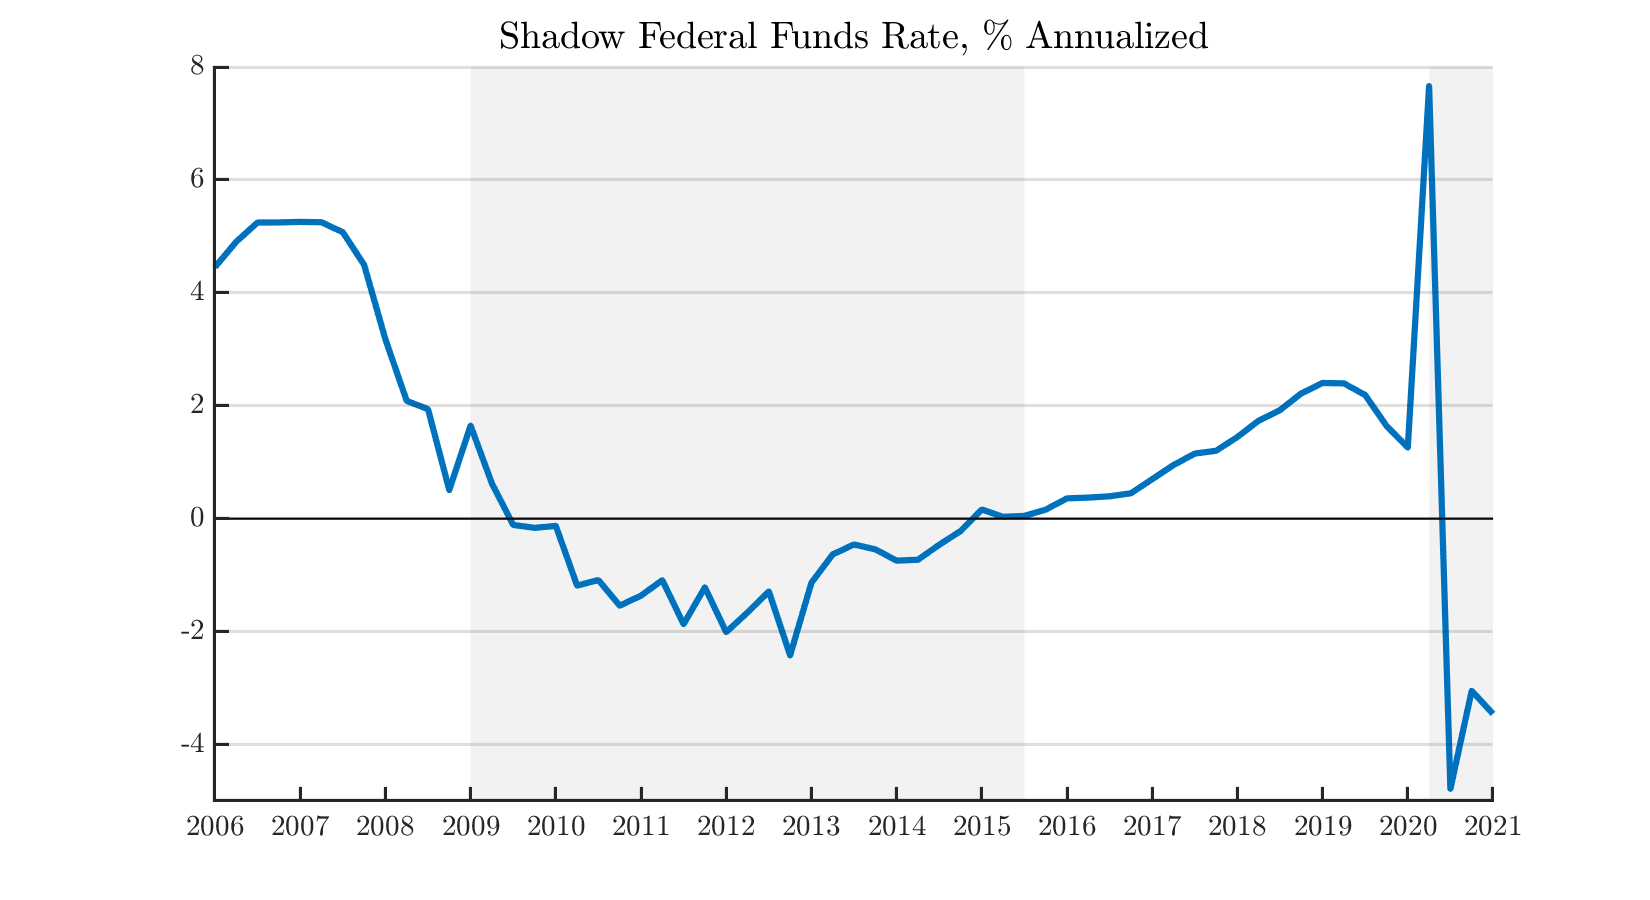
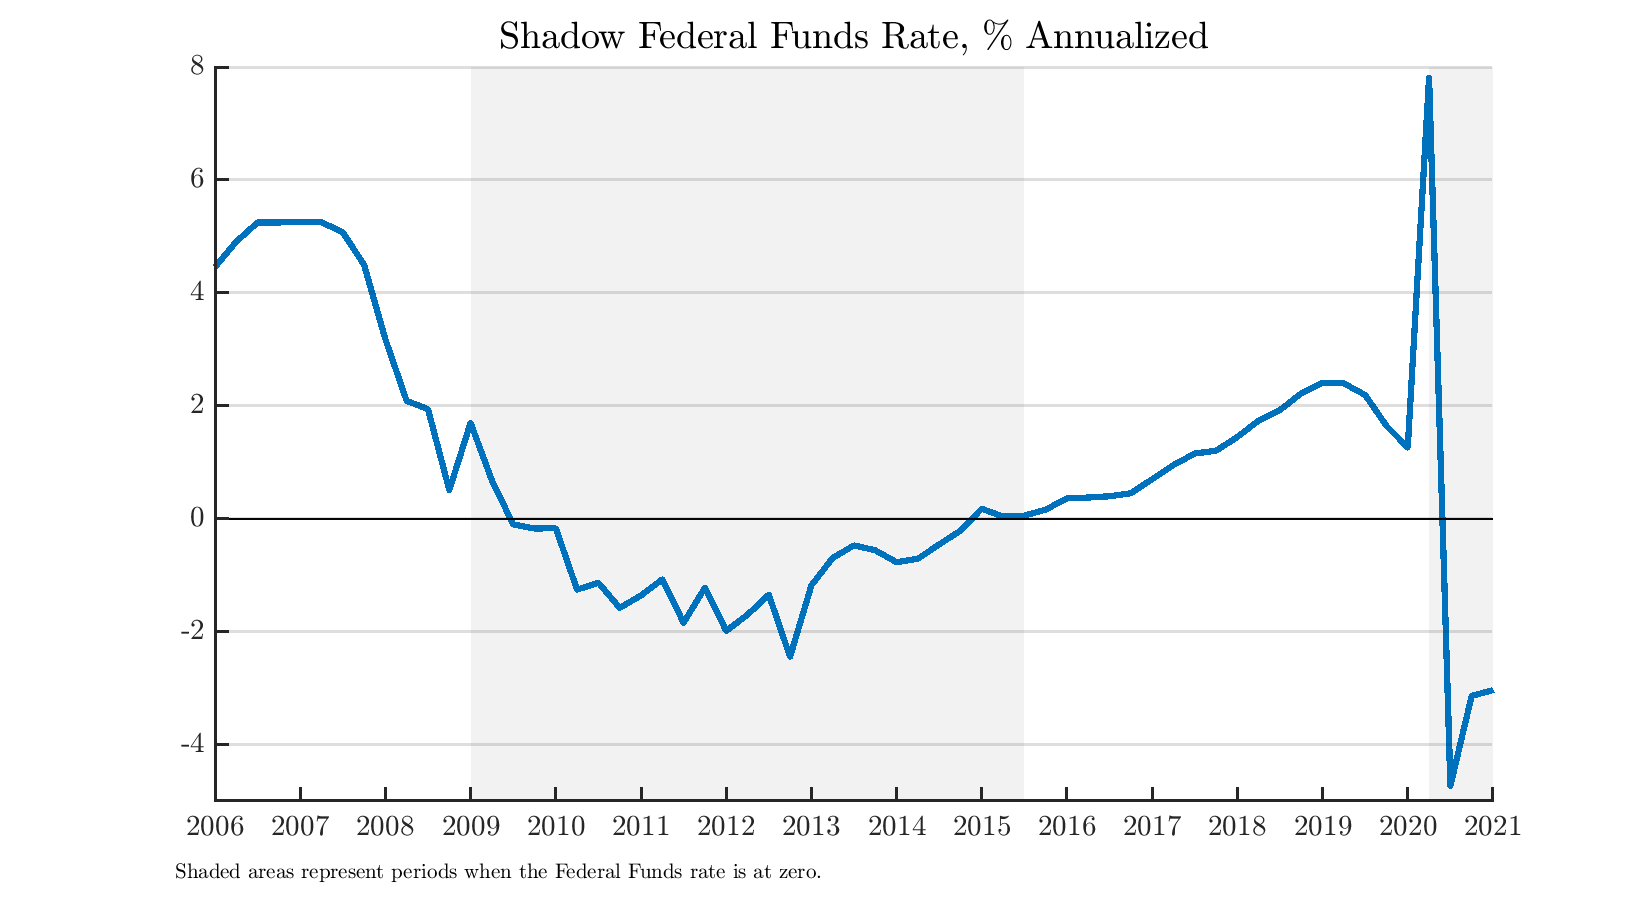
Update Shadow Rate with Latest Data

diff --git a/README.md b/README.md
@@ -2,6 +2,8 @@
 
 by Callum Jones, Mariano Kulish, and James Morley
 
+The paper is available [here](https://callumjones.github.io/files/shadow-rate.pdf).
+
 ## Structural Shadow Rate
 
 Last updated on 08-June-2021.
@@ -19,3 +21,26 @@ The files contain the following variables.
 | `date`   | Quarters, starting from 1984Q1 |
 | `fedfundsrate` | Federal Funds Rate, Annualized |
 | `fedfundsrate_shadow` | Shadow Federal Funds Rate, Annualized |
+
+<!---
+## Figure Reproduction
+
+### Software Requirements
+
+- The code is written in Matlab.
+- The [Dynare](https://www.dynare.org/) package is used to run the model simulations. The scripts work with version 4.6.0 of Dynare.
+
+### Figures
+
+The figures in the paper are computed by running the scripts below. All figures are printed to the figures directory specified at the top of each script.
+
+| Figure File Name         | Script to Run                       |
+|--------------------------|-------------------------------------|
+|shadow_rate_main_v2       | `run_shadow_distribution`           |
+|shadow_rate_main_shocks   | `run_shadow_distribution`           |
+|shadow_rate_zlb_combined  | `run_shadow_distribution`           |
+|contribution_sh_shocks_srlr_sh_r20only | `run_long_rate_decomp` |
+|stsr_var_zlb              | `run_var`                           |
+|wuxia_var_zlb             | `run_var`                           |
+|shadow_rate_main_ext_v2   | `run_shadow_distribution`           |
+-->
